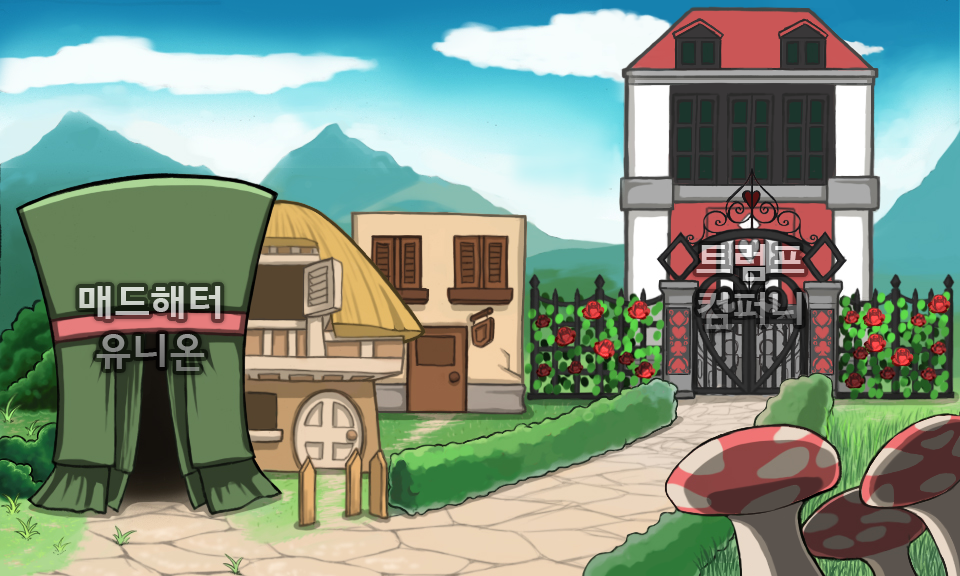
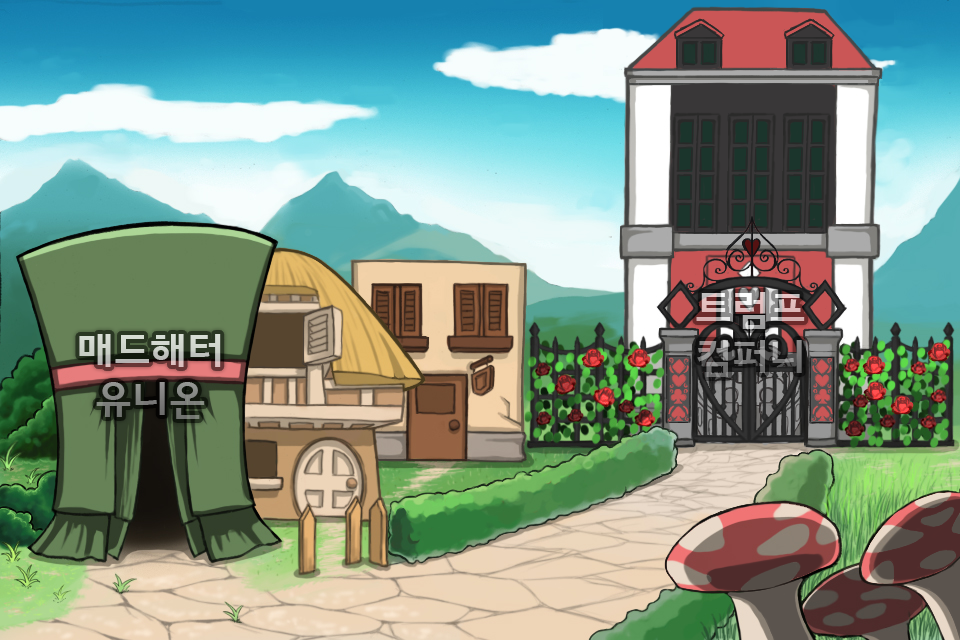
wonderland v.0.0.32// 기존사이즈 터치버젼 테스트

diff --git a/gfw/gfw.js b/gfw/gfw.js
@@ -6,13 +6,10 @@ function onGameInit()
     debugSystem.debugMode = false;
     //리소스 프리로딩
     //로딩 화면 이미지
-    resourcePreLoader.AddImage("img/loading.png");
+    resourcePreLoader.AddImage("img/loading.jpg");
     resourcePreLoader.AddImage("img/loading_loginbutton_01.png");
     resourcePreLoader.AddImage("img/loading_loginbutton_01_down.png");
     resourcePreLoader.AddImage("img/loading_loginbutton_02.png");
-    resourcePreLoader.AddImage("img/loading_loginbutton_02_down.png");
-
-    resourcePreLoader.AddImage("img/error.png");
     //맵 화면 이미지
     resourcePreLoader.AddImage("img/settingbutton.png");
     resourcePreLoader.AddImage("img/settingbutton_down.png");
@@ -29,15 +26,8 @@ function onGameInit()
     resourcePreLoader.AddImage("img/select_gamebutton_off.png");
     resourcePreLoader.AddImage("img/select_gamescroll.png");
     resourcePreLoader.AddImage("img/select_gamescroll_mask.png");
-    resourcePreLoader.AddImage("img/select_gamescroll_shop.png");
-    resourcePreLoader.AddImage("img/select_gamescroll_shop_down.png");
-    resourcePreLoader.AddImage("img/select_gamescroll_stage02.png");
-    resourcePreLoader.AddImage("img/select_gamescroll_stage02_down.png");
-    resourcePreLoader.AddImage("img/select_gamescroll_stage03.png");
-    resourcePreLoader.AddImage("img/select_gamescroll_stage03_down.png");
     resourcePreLoader.AddImage("img/select_gamescroll_startbutton.png");
     resourcePreLoader.AddImage("img/select_gamescroll_startbutton_down.png");
-
     resourcePreLoader.AddImage("img/select_datascroll.png");
     resourcePreLoader.AddImage("img/select_datascroll_mask.png");
     resourcePreLoader.AddImage("img/select_datascroll_receivebutton_on.png");
@@ -54,16 +44,12 @@ function onGameInit()
     resourcePreLoader.AddImage("img/game_background_01.png");
     resourcePreLoader.AddImage("img/game_background_02.png");
     resourcePreLoader.AddImage("img/game_background_03.png");
-    resourcePreLoader.AddImage("img/game_background_leftside.png");
-    resourcePreLoader.AddImage("img/game_background_rightside.png");
     resourcePreLoader.AddImage("img/game_player_left.png");
     resourcePreLoader.AddImage("img/game_player_right.png");
     resourcePreLoader.AddImage("img/game_enemy_dia_left.png");
     resourcePreLoader.AddImage("img/game_enemy_dia_left_dead.png");
-    resourcePreLoader.AddImage("img/game_enemy_dia_left_attack.png");
     resourcePreLoader.AddImage("img/game_enemy_dia_right.png");
     resourcePreLoader.AddImage("img/game_enemy_dia_right_dead.png");
-    resourcePreLoader.AddImage("img/game_enemy_dia_right_attack.png");
     resourcePreLoader.AddImage("img/shadow.png");
     resourcePreLoader.AddImage("img/game_item_coin.png");
     resourcePreLoader.AddImage("img/game_ward.png");
@@ -71,7 +57,8 @@ function onGameInit()
     resourcePreLoader.AddImage("img/skillspelling_right.png");
     resourcePreLoader.AddImage("img/game_fireball_left.png");
     resourcePreLoader.AddImage("img/game_fireball_right.png");
-    resourcePreLoader.AddImage("img/game_enemy_knockback.png");
+    resourcePreLoader.AddImage("img/game_knockback_left.png");
+    resourcePreLoader.AddImage("img/game_knockback_right.png");
     resourcePreLoader.AddImage("img/game_flame_left.png");
     resourcePreLoader.AddImage("img/game_flame_right.png");
     
@@ -79,15 +66,6 @@ function onGameInit()
     resourcePreLoader.AddImage("img/message_exp.png");
     resourcePreLoader.AddImage("img/message_level_up.png");
     resourcePreLoader.AddImage("img/message_score.png");
-
-    resourcePreLoader.AddImage("img/game_notify_enemydia_left.png");
-    resourcePreLoader.AddImage("img/game_notify_enemydia_right.png");
-    resourcePreLoader.AddImage("img/game_notify_item_left.png");
-    resourcePreLoader.AddImage("img/game_notify_item_right.png");
-    resourcePreLoader.AddImage("img/game_notify_ward_left.png");
-    resourcePreLoader.AddImage("img/game_notify_ward_right.png");
-    resourcePreLoader.AddImage("img/game_notify_ward_left_beat.png");
-    resourcePreLoader.AddImage("img/game_notify_ward_right_beat.png");
     
     //게임 UI 이미지
     resourcePreLoader.AddImage("img/game_UI_leftbutton.png");
@@ -119,7 +97,7 @@ function onGameInit()
     
     // 게임 초기 시작 상태 설정
     after_loading_state = new TitleState(); // 나중에 타이틀 스테이트로 바꿀것
-    gameInterval = setInterval( gameLoop, 1000 / GAME_FPS );
+    setInterval( gameLoop, 1000 / GAME_FPS );
 }
 
 

diff --git a/gfw/ResourcePreLoader.js b/gfw/ResourcePreLoader.js
@@ -58,35 +58,39 @@ function onLoadImageResourceComplete()
 
 function LoadingState()
 {
-    this.loadingTimer = new Timer();
-    this.developer = new Image();
-    this.developer.src = "img/developer.png";
-    this.imgLoading = new Image(); 
-    this.imgLoading.src = "img/loading.png";
+	this.loadingTimer = new Timer();
+	this.developer = new Image();
+	this.developer.src = "img/developer.png";
+	this.imgLoading = new Image(); 
+	this.imgLoading.src = "img/loading.jpg";
     return this;
 }
 
 LoadingState.prototype.Render = function( )
 {
+    var theCanvas = document.getElementById("GameCanvas");
+    var Context  = theCanvas.getContext("2d");
+    
     var totalResourceCount = resourcePreLoader.intAllResourceCount + soundSystem.intAllResourceCount;
     var nowCompleteResourceCount = resourcePreLoader.nowResourceLoadedCount + soundSystem.nowResourceLoadedCount;
     
-    if(this.loadingTimer.nowFrame < 3000){
-        Context.drawImage(this.developer, 0, 0);
-    } else if( (this.loadingTimer.nowFrame>=3000)&&(this.loadingTimer.nowFrame < 7000) ) {
-        Context.drawImage(this.imgLoading, 0, 0);
-        Context.fillStyle    = "#ffffff";
-        Context.font         = '28px "ShowcardGothic"'; 
-        Context.textBaseline = "top";
-        Context.fillText( "Now Loading..." + (100 * nowCompleteResourceCount / totalResourceCount).toFixed(1)+" %", 31, 470 );
-    }
-    
+	if(this.loadingTimer.nowFrame < 3000){
+		Context.drawImage(this.developer, 0, 0);
+	} else if( (this.loadingTimer.nowFrame>=3000)&&(this.loadingTimer.nowFrame < 7000) ) {
+Context.drawImage(this.imgLoading, 0, 0);
+		Context.fillStyle    = "#ffffff";
+	    Context.font         = '28px Arial'; 
+		Context.textBaseline = "top";
+		Context.fillText( "Now Loading..." + 100 * nowCompleteResourceCount / totalResourceCount+" %", 31, 570 );
+	}
+	
 };
 
 LoadingState.prototype.Update = function( )
 {
-    // 리소스를 모두 로딩했다면 게임 타이틀 상태로 전환
-    if( (this.loadingTimer.nowFrame>7000)&&resourcePreLoader.isLoadComplete&&soundSystem.isLoadComplete )
+    // 리소스를 모두 로딩했다면 게임 타이틀 상태로 전환한다.
+    //if( resourcePreLoader.isLoadComplete && soundSystem.isLoadComplete )
+    if(this.loadingTimer.nowFrame > 7000)
     {
         ChangeGameState( after_loading_state );
     }    

diff --git a/WL_Title.js b/WL_Title.js
@@ -1,5 +1,5 @@
 function TitleState(){
-	this.imgLoading = resourcePreLoader.GetImage("img/loading.png");
+	this.imgLoading = resourcePreLoader.GetImage("img/loading.jpg");
 	this.flagLogin1 = false;
 	this.imgLogin1 = resourcePreLoader.GetImage("img/loading_loginbutton_01.png");
 	this.imgLogin1Down = resourcePreLoader.GetImage("img/loading_loginbutton_01_down.png");
@@ -13,6 +13,9 @@ TitleState.prototype.Init = function(){
 };
 
 TitleState.prototype.Render= function(){
+	var theCanvas = document.getElementById("GameCanvas");
+	var Context = theCanvas.getContext("2d");
+	
 	Context.globalAlpha = this.alpha/255;
 	Context.drawImage(this.imgLoading, 0, 0);
 	if(this.flagLogin1)

diff --git a/gfw/GameFramework.js b/gfw/GameFramework.js
@@ -32,12 +32,9 @@ function Update()
 function Render()
 {
   // 그리기
-  theCanvas = document.getElementById("GameCanvas");
-  Context  = theCanvas.getContext("2d");
+  var theCanvas = document.getElementById("GameCanvas");
+  var Context  = theCanvas.getContext("2d");
 
-  Context.fillStyle = "#000000";
-  Context.fillRect(0, 0, 960, 640); 
-  
   game_state.Render();
   
   // 각종 테스트 용도

diff --git a/index.html b/index.html
@@ -30,7 +30,7 @@
 		
 	</head>
 	<body bgcolor="#000000">
-		<canvas id="GameCanvas" width="960" height="576" style="position:absolute; top:0px; left:0px">
+		<canvas id="GameCanvas" width="960" height="640" style="position:absolute; top:0px; left:0px">
 			HTML5 Canvas를 지원하지 않습니다.
 		</canvas>
 	</body>
